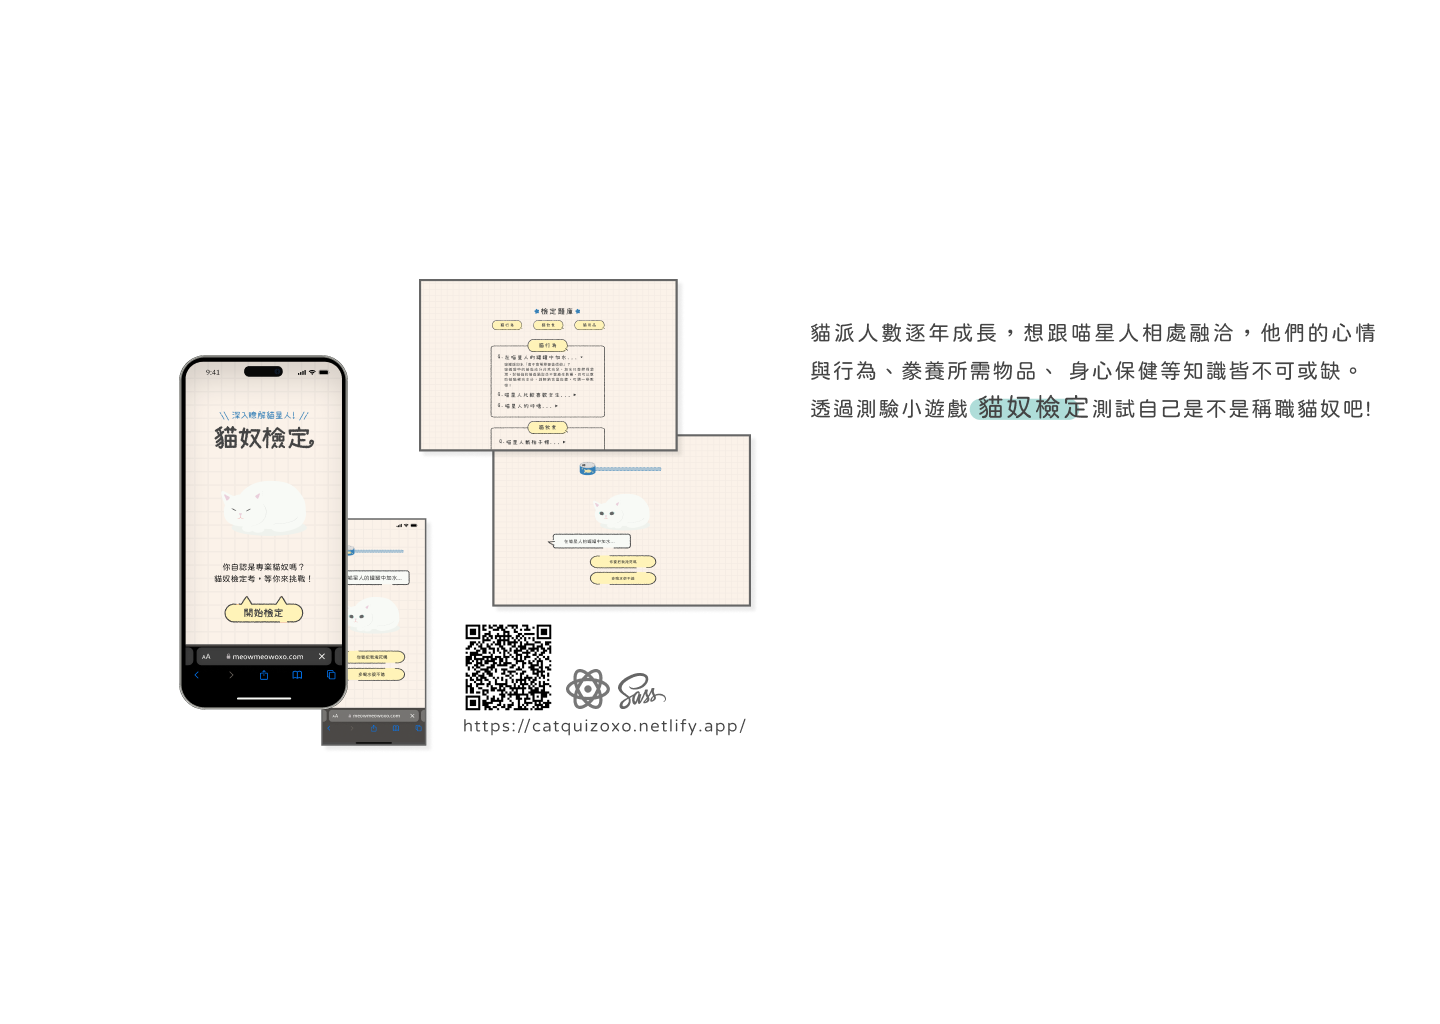
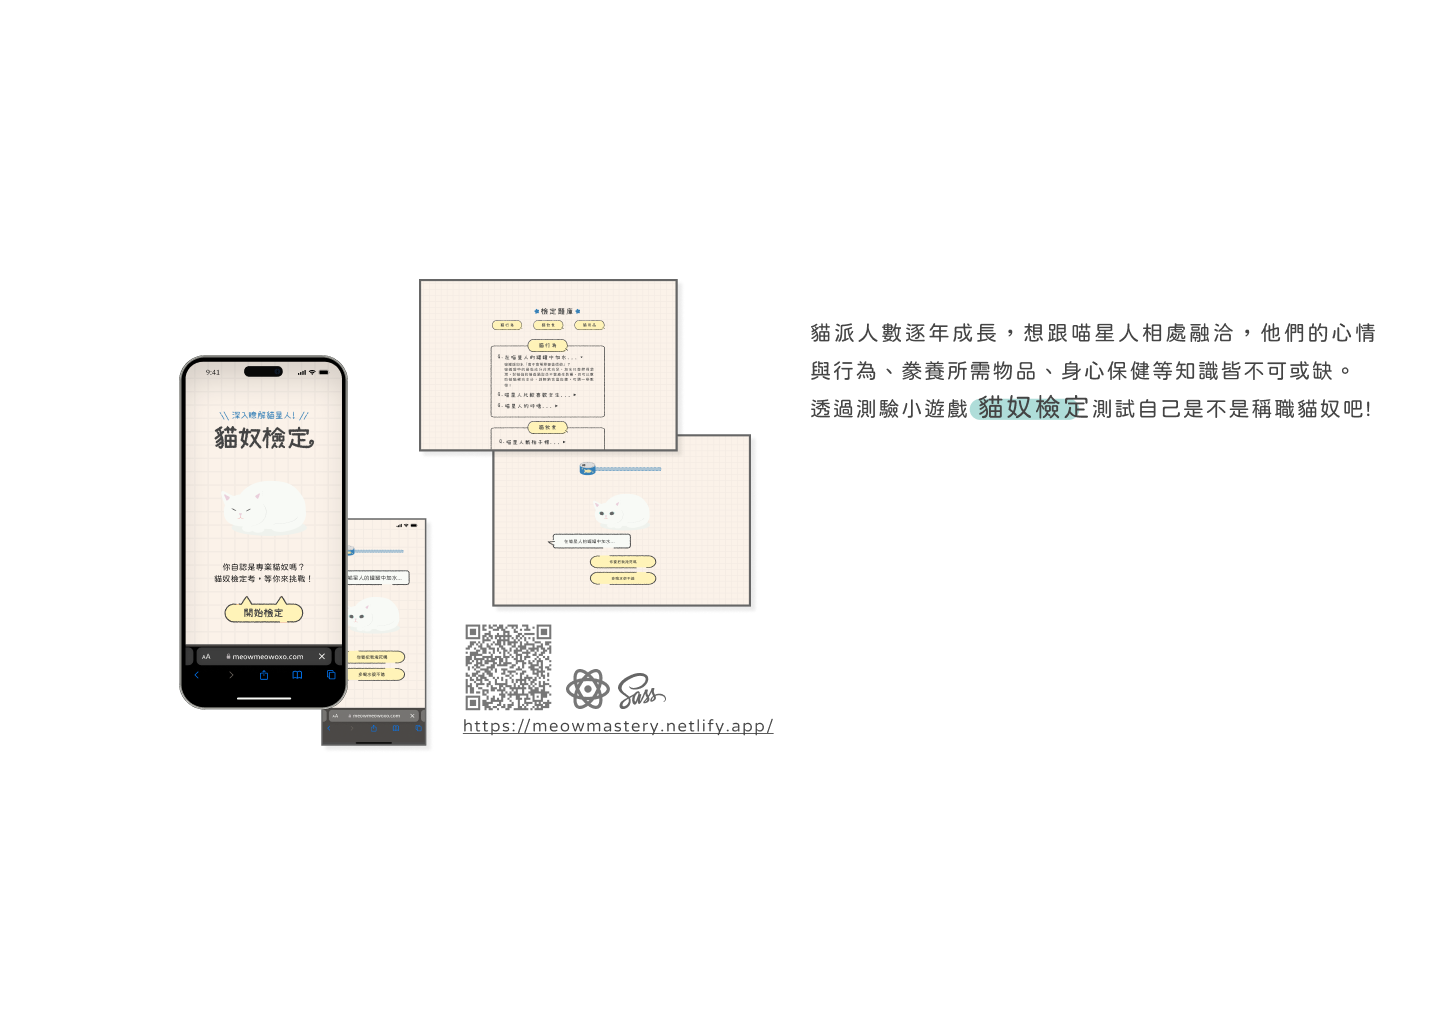
feat: GTM setted, update some media.

Changed region(s): [[0.3125, 0.5938, 0.5312, 0.7188], [0.7188, 0.3438, 0.9375, 0.375]]

diff --git a/src/header/Header.js b/src/header/Header.js
@@ -10,23 +10,37 @@ export default function Header({
 }) {
   const [handleHover, setHandleHover] = useState("");
   const [handleBtnHover, setHandleBtnHover] = useState("");
-  const handleMouseMove = (e) => {
-    setHandleHover(e);
+  const [startTime, setStartTime] = useState(0);
+
+  const handleMouseEnter = (elementID) => {
+    setHandleHover(elementID);
+    setStartTime( Date.now());
+
   };
-  const handleMouseOut = () => {
+  const handleMouseLeave = (elementID) => {
+    const endTime =  Date.now();
+    const hoverTime = startTime - endTime;
     setHandleHover("");
+
+    window.dataLayer = window.dataLayer || [];
+    window.dataLayer.push({
+      event: "hoverTime",
+      hoverTime: hoverTime,
+      elementID: handleHover,
+    });
+
   };
-  const handleBtnMouseMove = (e) => {
-    setHandleBtnHover(e);
+  const handleBtnMouseEnter = (elementID) => {
+    setHandleBtnHover(elementID);
   };
-  const handleBtnMouseOut = () => {
+  const handleBtnMouseOut = (elementID) => {
     setHandleBtnHover("");
   };
-  const handleOnClick = (e) => {
+  const handleOnClick = (elementID) => {
     setHandleHover("");
     setHandleBtnHover("");
     setHandleToggle(true);
-    setHandleBtnClick(e);
+    setHandleBtnClick(elementID);
   };
   useEffect(() => {
     if (handleBtnClick) {
@@ -42,33 +56,33 @@ export default function Header({
               <button className="index">Index</button>
 
               <button
-                className={handleHover === "catquiz" ? "div-hover" : ""}
-                onMouseMove={() => handleBtnMouseMove("catquiz")}
-                onMouseOut={handleBtnMouseOut}
+                className={handleHover === "btn-catquiz" ? "div-hover" : ""}
+                onMouseEnter={() => handleBtnMouseEnter("btn-catquiz")}
+                onMouseLeave={() => handleBtnMouseOut("btn-catquiz")}
                 onClick={() => handleOnClick(0)}
               >
                 MeowMastery
               </button>
               <button
                 className={handleHover === "uiux" ? "div-hover" : ""}
-                onMouseMove={() => handleBtnMouseMove("uiux")}
-                onMouseOut={handleBtnMouseOut}
+                onMouseEnter={() => handleBtnMouseEnter("btn-uiux")}
+                onMouseLeave={() => handleBtnMouseOut("btn-uiux")}
                 onClick={() => handleOnClick(1)}
               >
                 UI/UX
               </button>
               <button
                 className={handleHover === "programing" ? "div-hover" : ""}
-                onMouseMove={() => handleBtnMouseMove("programing")}
-                onMouseOut={handleBtnMouseOut}
+                onMouseEnter={() => handleBtnMouseEnter("btn-programing")}
+                onMouseLeave={() => handleBtnMouseOut("btn-programing")}
                 onClick={() => handleOnClick(9)}
               >
                 Programing
               </button>
               <button
                 className={handleHover === "about" ? "div-hover" : ""}
-                onMouseMove={() => handleBtnMouseMove("about")}
-                onMouseOut={handleBtnMouseOut}
+                onMouseEnter={() => handleBtnMouseEnter("btn-about")}
+                onMouseLeave={() => handleBtnMouseOut("btn-about")}
                 onClick={() => handleOnClick(12)}
               >
                 About Me
@@ -76,13 +90,13 @@ export default function Header({
             </div>
             <div
               className="catquiz"
-              onMouseMove={() => handleMouseMove("catquiz")}
-              onMouseOut={handleMouseOut}
+              onMouseEnter={() => handleMouseEnter("catquiz")}
+              onMouseLeave={() => handleMouseLeave("catquiz")}
               onClick={() => handleOnClick(0)}
             >
               <div
                 className={
-                  handleBtnHover === "catquiz"
+                  handleBtnHover === "btn-catquiz"
                     ? "div-content btn-hover-effect"
                     : "div-content"
                 }
@@ -90,25 +104,25 @@ export default function Header({
             </div>
             <div
               className={
-                handleBtnHover === "uiux"
+                handleBtnHover === "btn-uiux"
                   ? "uiux btn-hover-effect-uiux"
                   : "uiux"
               }
-              onMouseMove={() => handleMouseMove("uiux")}
-              onMouseOut={handleMouseOut}
+              onMouseEnter={() => handleMouseEnter("uiux")}
+              onMouseLeave={() => handleMouseLeave("uiux")}
               onClick={() => handleOnClick(1)}
             >
               <RotateItem />
             </div>
             <div
               className="programing"
-              onMouseMove={() => handleMouseMove("programing")}
-              onMouseOut={handleMouseOut}
+              onMouseEnter={() => handleMouseEnter("programing")}
+              onMouseLeave={() => handleMouseLeave("programing")}
               onClick={() => handleOnClick(9)}
             >
               <div
                 className={
-                  handleBtnHover === "programing"
+                  handleBtnHover === "btn-programing"
                     ? "line active-1"
                     : "line line-1"
                 }
@@ -121,7 +135,7 @@ export default function Header({
               </div>
               <div
                 className={
-                  handleBtnHover === "programing"
+                  handleBtnHover === "btn-programing"
                     ? "line active-2"
                     : "line line-2"
                 }
@@ -143,7 +157,7 @@ export default function Header({
               </div>
               <div
                 className={
-                  handleBtnHover === "programing"
+                  handleBtnHover === "btn-programing"
                     ? "line active-3"
                     : "line line-3"
                 }
@@ -159,7 +173,7 @@ export default function Header({
               </div>
               <div
                 className={
-                  handleBtnHover === "programing"
+                  handleBtnHover === "btn-programing"
                     ? "line active-4"
                     : "line line-4"
                 }
@@ -173,13 +187,13 @@ export default function Header({
             </div>
             <div
               className="about"
-              onMouseMove={() => handleMouseMove("about")}
-              onMouseOut={handleMouseOut}
+              onMouseEnter={() => handleMouseEnter("about")}
+              onMouseLeave={() => handleMouseLeave("about")}
               onClick={() => handleOnClick(12)}
             >
               <div
                 className={
-                  handleBtnHover === "about" ? "text btn-hover-effect" : "text"
+                  handleBtnHover === "btn-about" ? "text btn-hover-effect" : "text"
                 }
               >
                 <h1>UI/UX</h1>

diff --git a/src/header/components/TrackHover.js b/src/header/components/TrackHover.js
@@ -1,0 +1,27 @@
+import { useState } from "react";
+
+export default function TrackHover({ id, children }) {
+    const [startTime, setStartTime] = useState(0);
+    const [hoverTime, setHoverTime] = useState(0);
+    const handleMouseEnter = () => {
+        setStartTime(Date.now());
+    }
+    const handleMouseLeave = () => {
+        const endTime = Date.now();
+        const hoverDuration = endTime - startTime;
+        setHoverTime(hoverDuration);
+    }
+    window.dataLayer = window.dataLayer || [];
+    window.dataLayer.push({
+        event: "hoverTime",
+        hoverTime: hoverDuration,
+        elementID: id
+    });
+    return (
+        <div id={id} onMouseEnter={handleMouseEnter} onMouseLeave={handleMouseLeaveF}>
+            {children}
+        </div>
+    )
+}
+
+

diff --git a/src/section/components/Catquiz.js b/src/section/components/Catquiz.js
@@ -6,7 +6,7 @@ export default function Catquiz() {
         <p>貓奴檢定考，等你來挑戰！</p>
         <div>
           <a
-            href="https://catquizoxo.netlify.app/"
+            href="https://meowmastery.netlify.app/"
             target="_blank"
             rel="noopener noreferrer"
           >

diff --git a/src/header/_header.scss b/src/header/_header.scss
@@ -54,6 +54,7 @@ header {
         align-items: center;
         justify-content: space-between;
         .index {
+          cursor: default;
           border: solid 3.5px $black;
           background-color: $primary-color;
         }

diff --git a/src/index.css b/src/index.css
@@ -144,6 +144,7 @@ header .container {
     justify-content: space-between;
   }
   header .container .nav .index {
+    cursor: default;
     border: solid 3.5px #333;
     background-color: #ffa4cd;
   }
